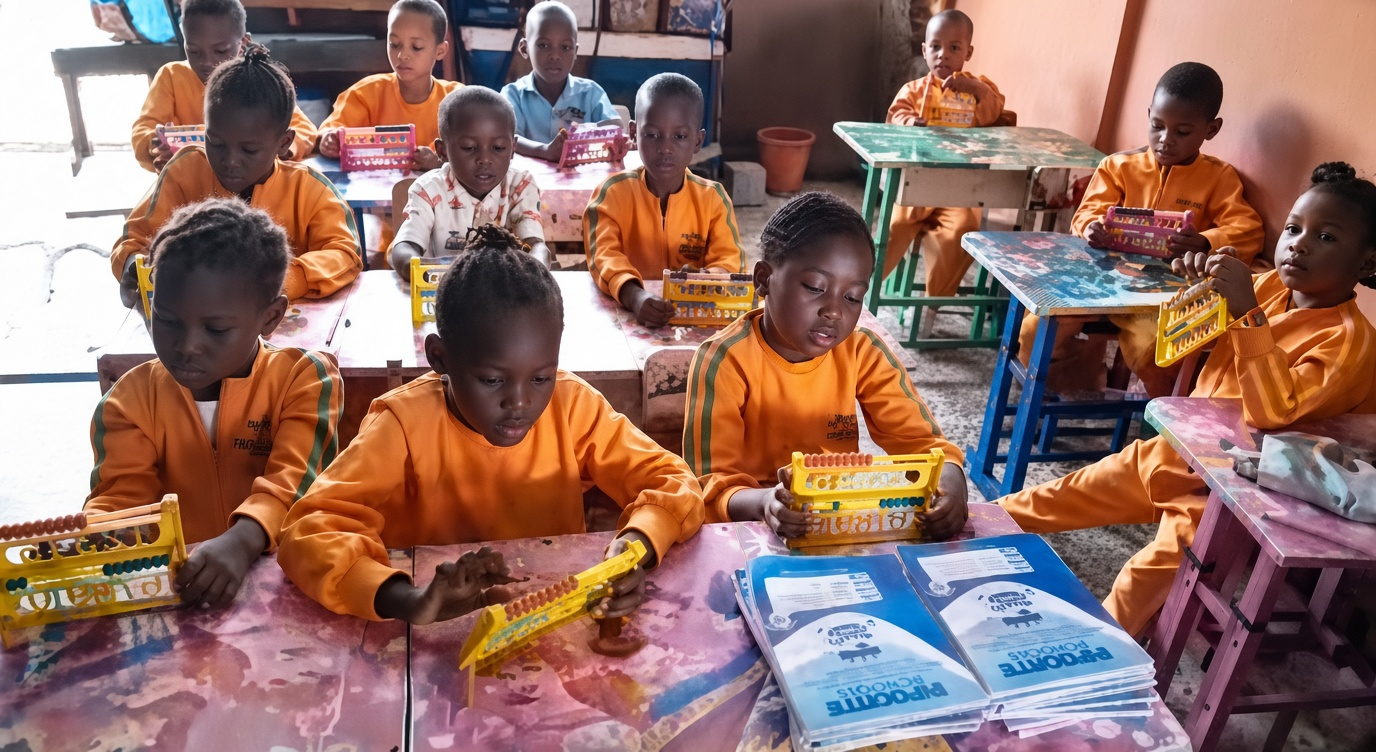
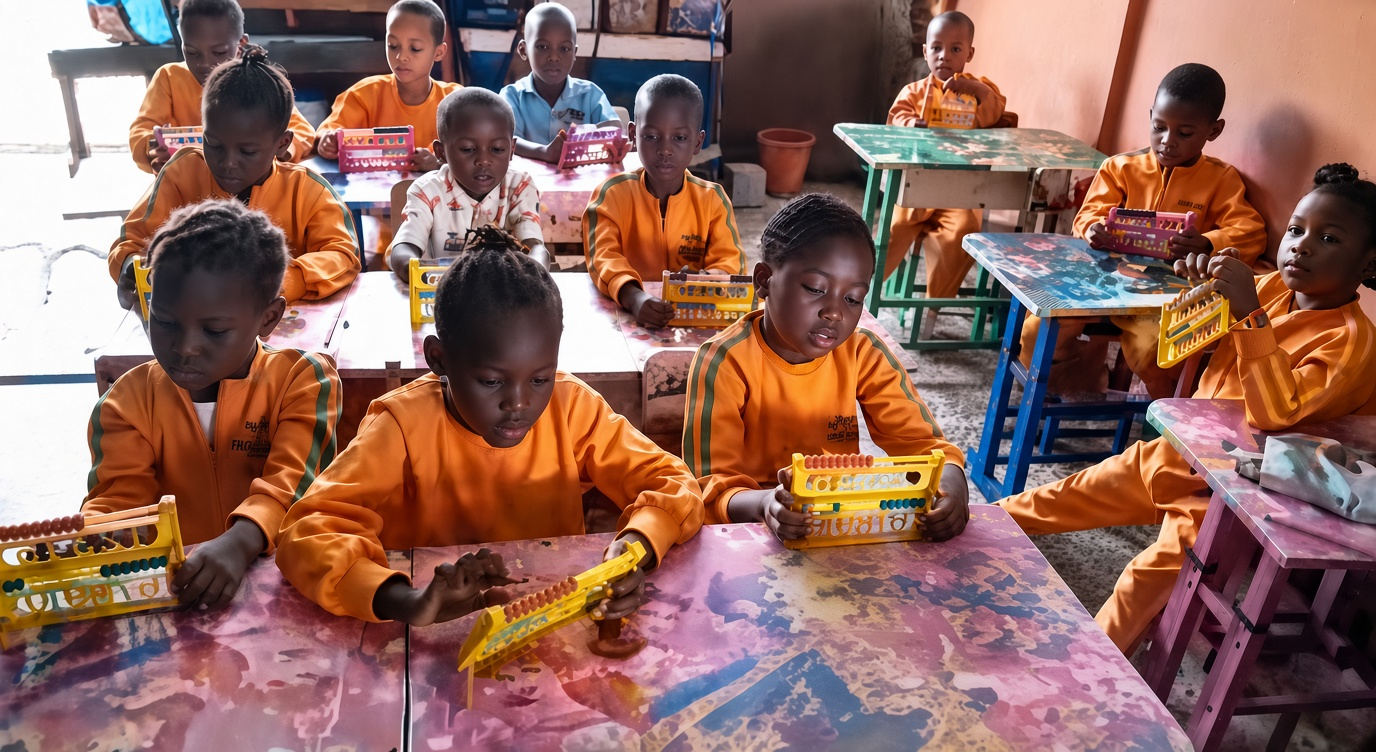
feat: update highlights section by removing emoji for a cleaner presentation

diff --git a/frontend/src/pages/Home.tsx b/frontend/src/pages/Home.tsx
@@ -61,10 +61,10 @@ const whyUs = [
 ];
 
 const highlights = [
-  { emoji: "🛡", label: "Safe Environment", desc: "A secure, welcoming space for every child" },
-  { emoji: "🎓", label: "Certified Teachers", desc: "Qualified, passionate educators" },
-  { emoji: "🎨", label: "Holistic Growth", desc: "Academics, arts, sports & more" },
-  { emoji: "❤", label: "Caring Community", desc: "Where every child is known & valued" },
+  { label: "Safe Environment", desc: "A secure, welcoming space for every child" },
+  { label: "Certified Teachers", desc: "Qualified, passionate educators" },
+  { label: "Holistic Growth", desc: "Academics, arts, sports & more" },
+  { label: "Caring Community", desc: "Where every child is known & valued" },
 ];
 
 const events = [
@@ -174,7 +174,6 @@ const Home = () => {
                 viewport={{ once: true }}
                 className="flex flex-col items-center text-center p-5 rounded-2xl bg-white hover:bg-primary/5 transition-colors"
               >
-                <div className="text-3xl mb-2">{item.emoji}</div>
                 <div className="font-extrabold text-gray-900 text-base">{item.label}</div>
                 <div className="text-xs text-muted-foreground mt-1 leading-relaxed">{item.desc}</div>
               </motion.div>
